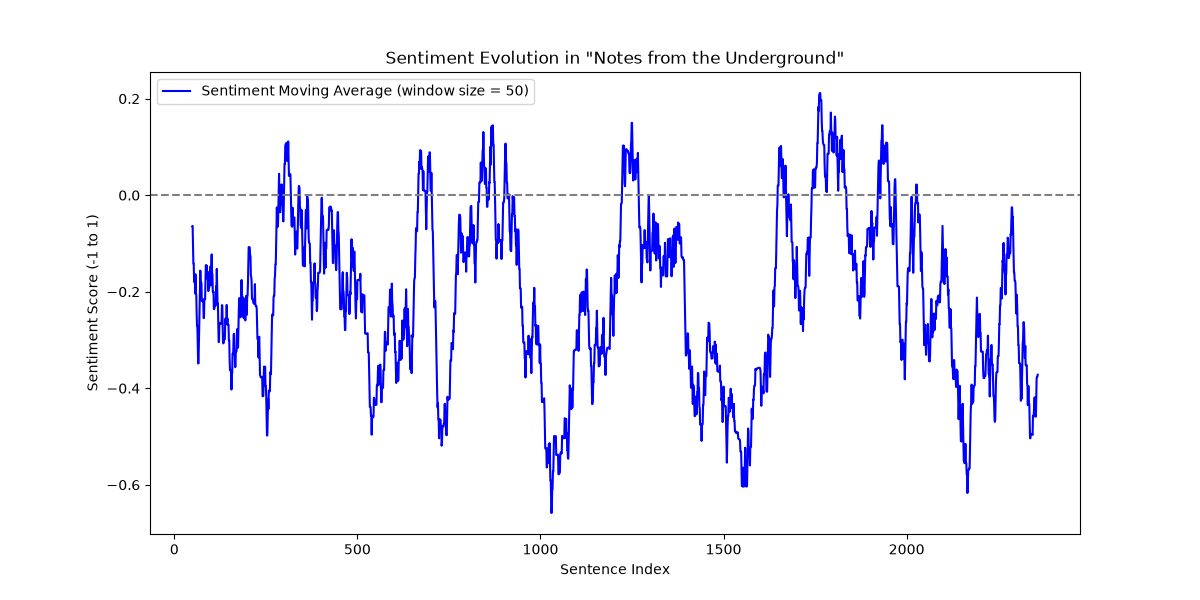
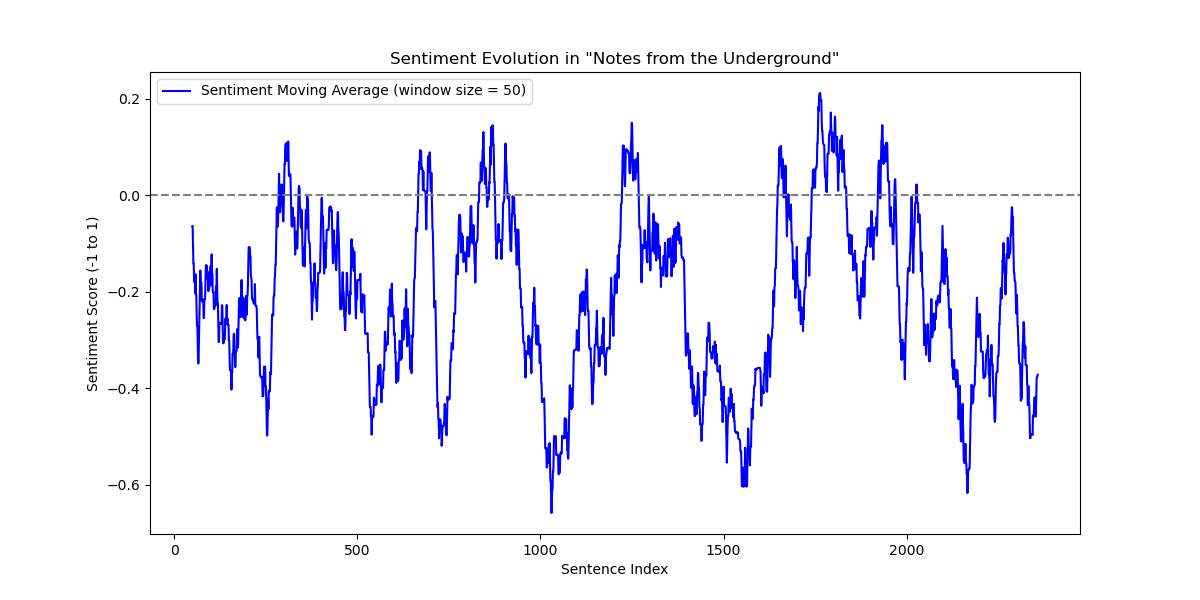
Misc

diff --git a/Lecture 2 - Data wrangling with text/Coding_challenge_solution.py b/Lecture 2 - Data wrangling with text/Coding_challenge_solution.py
@@ -1,0 +1,68 @@
+# -*- coding: utf-8 -*-
+"""
+Created on Tue Nov 12 16:33:56 2024
+
+@author: chris
+"""
+
+import re
+from collections import Counter
+import pandas as pd
+import numpy as np
+import matplotlib.pyplot as plt
+from scipy.stats import linregress
+
+# Define the ZipfIt function
+def ZipfIt(textID):
+    # Load and preprocess the text
+    file_path = f'Lecture 2 - Data wrangling with text/Coding_challenge_data/Texts/Text{textID}.txt'
+    with open(file_path, 'r', encoding="iso-8859-1") as f:
+        text = f.read().lower()
+        
+    # Tokenize and count word frequencies
+    words = re.findall(r'\b\w+\b', text)
+    word_counts = Counter(words)
+    
+    # Sort by frequency and rank the words
+    freq = np.array(sorted(word_counts.values(), reverse=True))
+    rank = np.arange(1, len(freq) + 1)
+    
+    # Log-transform the data
+    log_rank = np.log(rank)
+    log_freq = np.log(freq)
+    
+    # Perform linear regression
+    slope, _, _, _, _ = linregress(log_rank, log_freq)
+    
+    return slope
+
+if __name__ == "__main__":
+    # Apply ZipfIt to each text and store results
+    text_ids = range(1000)
+    slopes = {textID: ZipfIt(textID) for textID in text_ids}
+    
+    # Plot the histogram of slopes
+    plt.figure(figsize=(8, 5))
+    plt.hist(slopes.values(), bins=30, edgecolor='black')
+    plt.xlabel("Zipf Slope")
+    plt.ylabel("Frequency")
+    plt.title("Histogram of Zipf Slopes")
+    plt.savefig("Lecture 2 - Data wrangling with text/Coding_challenge_histogram.png")
+
+    # Classify based on slope and test quality
+    # Load answers for testing accuracy
+    answers = pd.read_csv('Lecture 2 - Data wrangling with text/Coding_challenge_data/Answer.csv')
+
+    # Define a threshold for classification based on Zipf slope
+    threshold = -0.8  # Adjust based on observed distribution of slopes (histogram)
+    predictions = [x < threshold for x in slopes.values()]
+
+    # Evaluate accuracy
+    # Compare predictions to actual answers
+    test = answers.Real == predictions 
+    acc = np.mean(test)
+    print(f'Accuracy: {acc:.2%}')
+
+    
+    
+    
